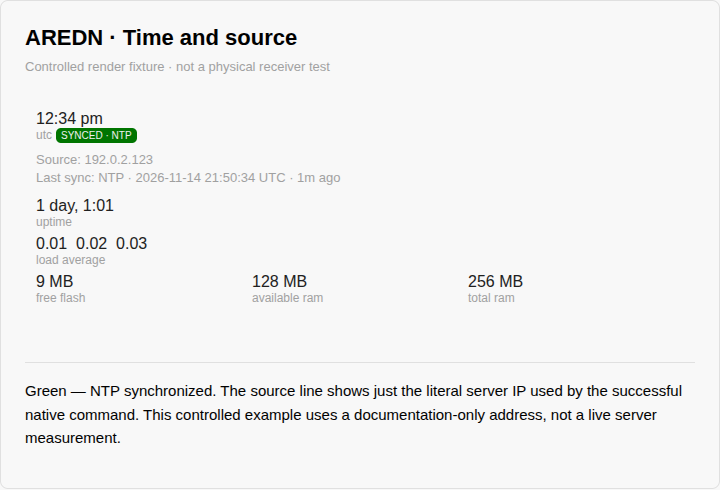
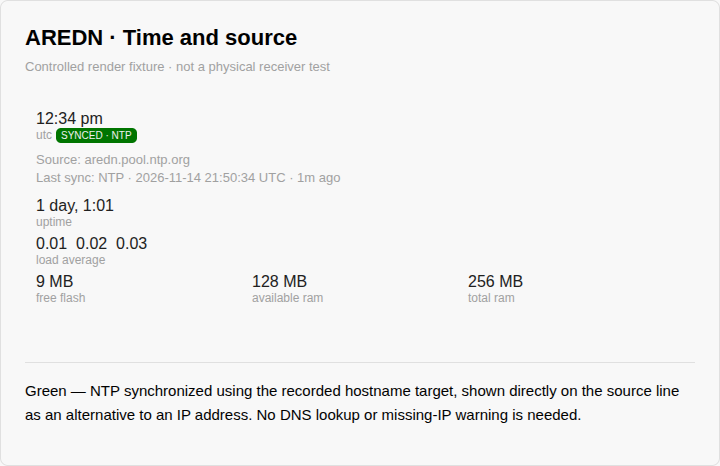
Show recorded NTP hostname as a valid source

diff --git a/docs/time-source-ui.md b/docs/time-source-ui.md
@@ -8,7 +8,7 @@ visible without treating them as the same thing.
 | `LOCKED · GPS` | `Source: GPS` | Fresh receiver fix with valid UTC time |
 | `WAITING · GPS` | `Source: GPS` | Discovery, no satellite fix, or no valid receiver time |
 | `ERROR · GPS` | `Source: GPS` | Fresh observation of a missing source or failed receiver connection/data |
-| `SYNCED · NTP` | `Source: <recorded server IP>`, otherwise `Source: Unknown` | Matching recent native synchronization evidence |
+| `SYNCED · NTP` | `Source: <recorded server IP or hostname>`, otherwise `Source: Unknown` | Matching recent native synchronization evidence |
 | `UNSYNCED · NTP` | `Source: Unknown` | Native daemon callback reports an unsynchronized stratum |
 | `STATUS UNKNOWN` | Historical source where known, otherwise explicitly unknown | Old, invalid, missing or unrecognized evidence cannot establish current status |
 
@@ -21,14 +21,14 @@ successful synchronization. No synchronization marker means no synchronization
 is recorded, not proof that the clock is currently wrong.
 
 GPS LOCAL/NETWORK provenance and the selected receiver device/endpoint appear
-in the visible detail line. A numeric NTP command target appears directly, for
-example `Source: 192.0.2.123` or `Source: 2001:db8::123`, with no NTP prefix.
-When no peer IP was recorded, the source line says **Source: Unknown**. If the
-successful target was a hostname, it is retained on the visible detail line
-alongside **IP not recorded**. The native one-shot result does not expose
-its resolved peer, and the daemon callback exposes no peer at all. The GUI
-does not perform DNS lookups or claim that a later DNS answer identifies the
-server which synchronized the clock.
+in the visible detail line. The successful NTP command target appears directly,
+for example `Source: 192.0.2.123`, `Source: 2001:db8::123`, or
+`Source: aredn.pool.ntp.org`, with no NTP prefix. A recorded hostname is a valid
+alternative to an IP address and needs no missing-IP warning. Only when neither
+an IP nor hostname was recorded does the line say **Source: Unknown**. The
+native one-shot result does not expose a hostname's resolved peer, and the
+daemon callback exposes no peer at all. The GUI performs no DNS lookups or
+configured-server guesses.
 
 GPS lock is receiver health, not proof of PPS accuracy or continuous clock
 discipline. NTP evidence describes an observed native synchronization, not a GPS
